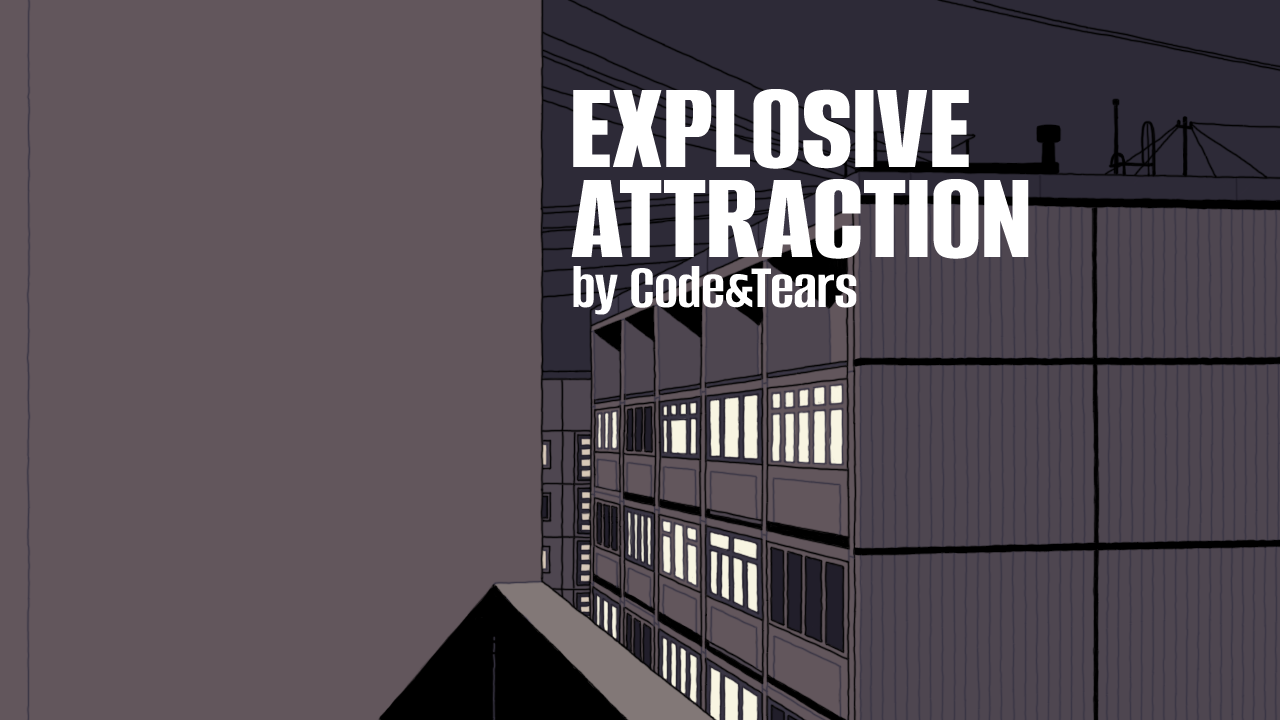
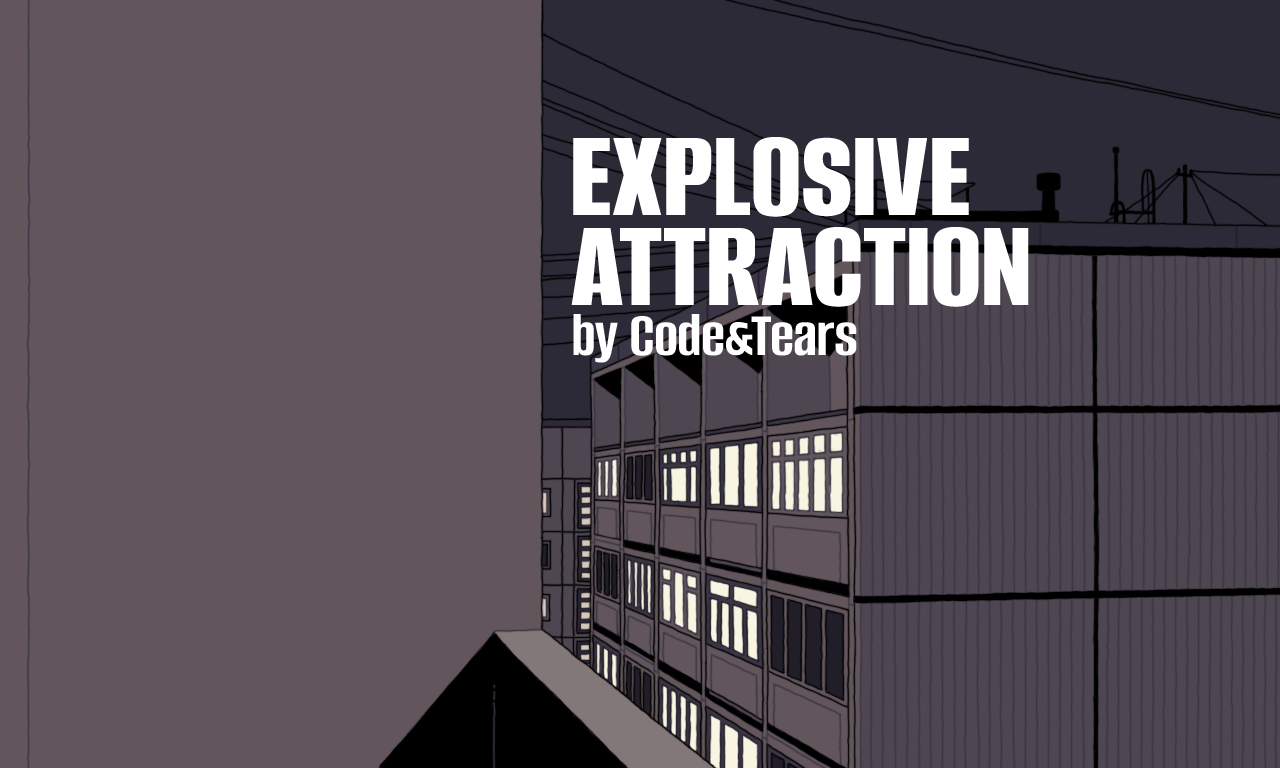
Добавлено расширение фона +исправлена ошибка, запускающая вызов стартовой анимации несколько раз

diff --git a/src/scripts/script.js b/src/scripts/script.js
@@ -961,9 +961,9 @@ const hideStartScreen = () => {
       boom.style.backgroundImage = `url("./src/images/interface/start/boom2/${boomArr[i]}.png")`;
       i += 1;
       prewTimeI = currTimeI;
-      if (i === 14) {
-        animateParamJumpNoFlags('start-screen', 'top', 'px', 0, 30, 0.2, () => {
-          animateParamJumpNoFlags('start-screen', 'top', 'px', 0, 10, 0.5);
+      if (boomArr[i] === 9) {
+        animateParamJumpNoFlags('start-screen', 'bottom', 'px', 0, -30, 0.2, () => {
+          animateParamJumpNoFlags('start-screen', 'bottom', 'px', 0, -10, 0.5);
         });
       }
     }
@@ -987,7 +987,7 @@ const hideStartScreen = () => {
     requestAnimationFrame(animationFlame);
   }
 
-  const boomArr = [1, 2, 2, 2, 2, 3, 4, 6, 8, 3, 3, 3, 3, 3, 9, 10, 11, 12, 13, 14, 14];
+  const boomArr = [1, 2, 2, 2, 2, 3, 4, 6, 6, 6, 6, 8, 3, 3, 3, 3, 3, 9, 10, 11, 12, 13, 14, 14];
   const flameArr = [-1, 0, 1, 2, 3, 4, 6, 6, 6];
   let nextFrame = 84;
   let i = 0;

diff --git a/index.html b/index.html
@@ -102,7 +102,7 @@
 
     <div id="days-screen" class="screen-size">
       <div id="calendar">
-        <div id="day1" class="active-day" onclick="startDay('001')">
+        <div id="day1" class="active-day" onclick="startDay('002')">
           <div id="c1" class="circle"></div>
         </div>
         <div id="day9" class="active-day" onclick="startDay('003')">
@@ -126,7 +126,7 @@
       </div>
     </div>
 
-    <div id="start-screen" class="screen-size" onclick="hideStartScreen()">
+    <div id="start-screen" class="screen-size">
       <div id="st-image-keeper"></div>
       <div id="st-boom"></div>
       <div id="st-click" class="screen-size" onclick="hideStartScreen()"></div>

diff --git a/src/styles/start.css b/src/styles/start.css
@@ -5,6 +5,8 @@
     align-items: center;
     background-color: transparent;
     z-index: 2500;
+    height: 480px;
+    bottom: 0px;
     background-image: url("../images/interface/start/bg.png");
 }
 #st-click:hover{
